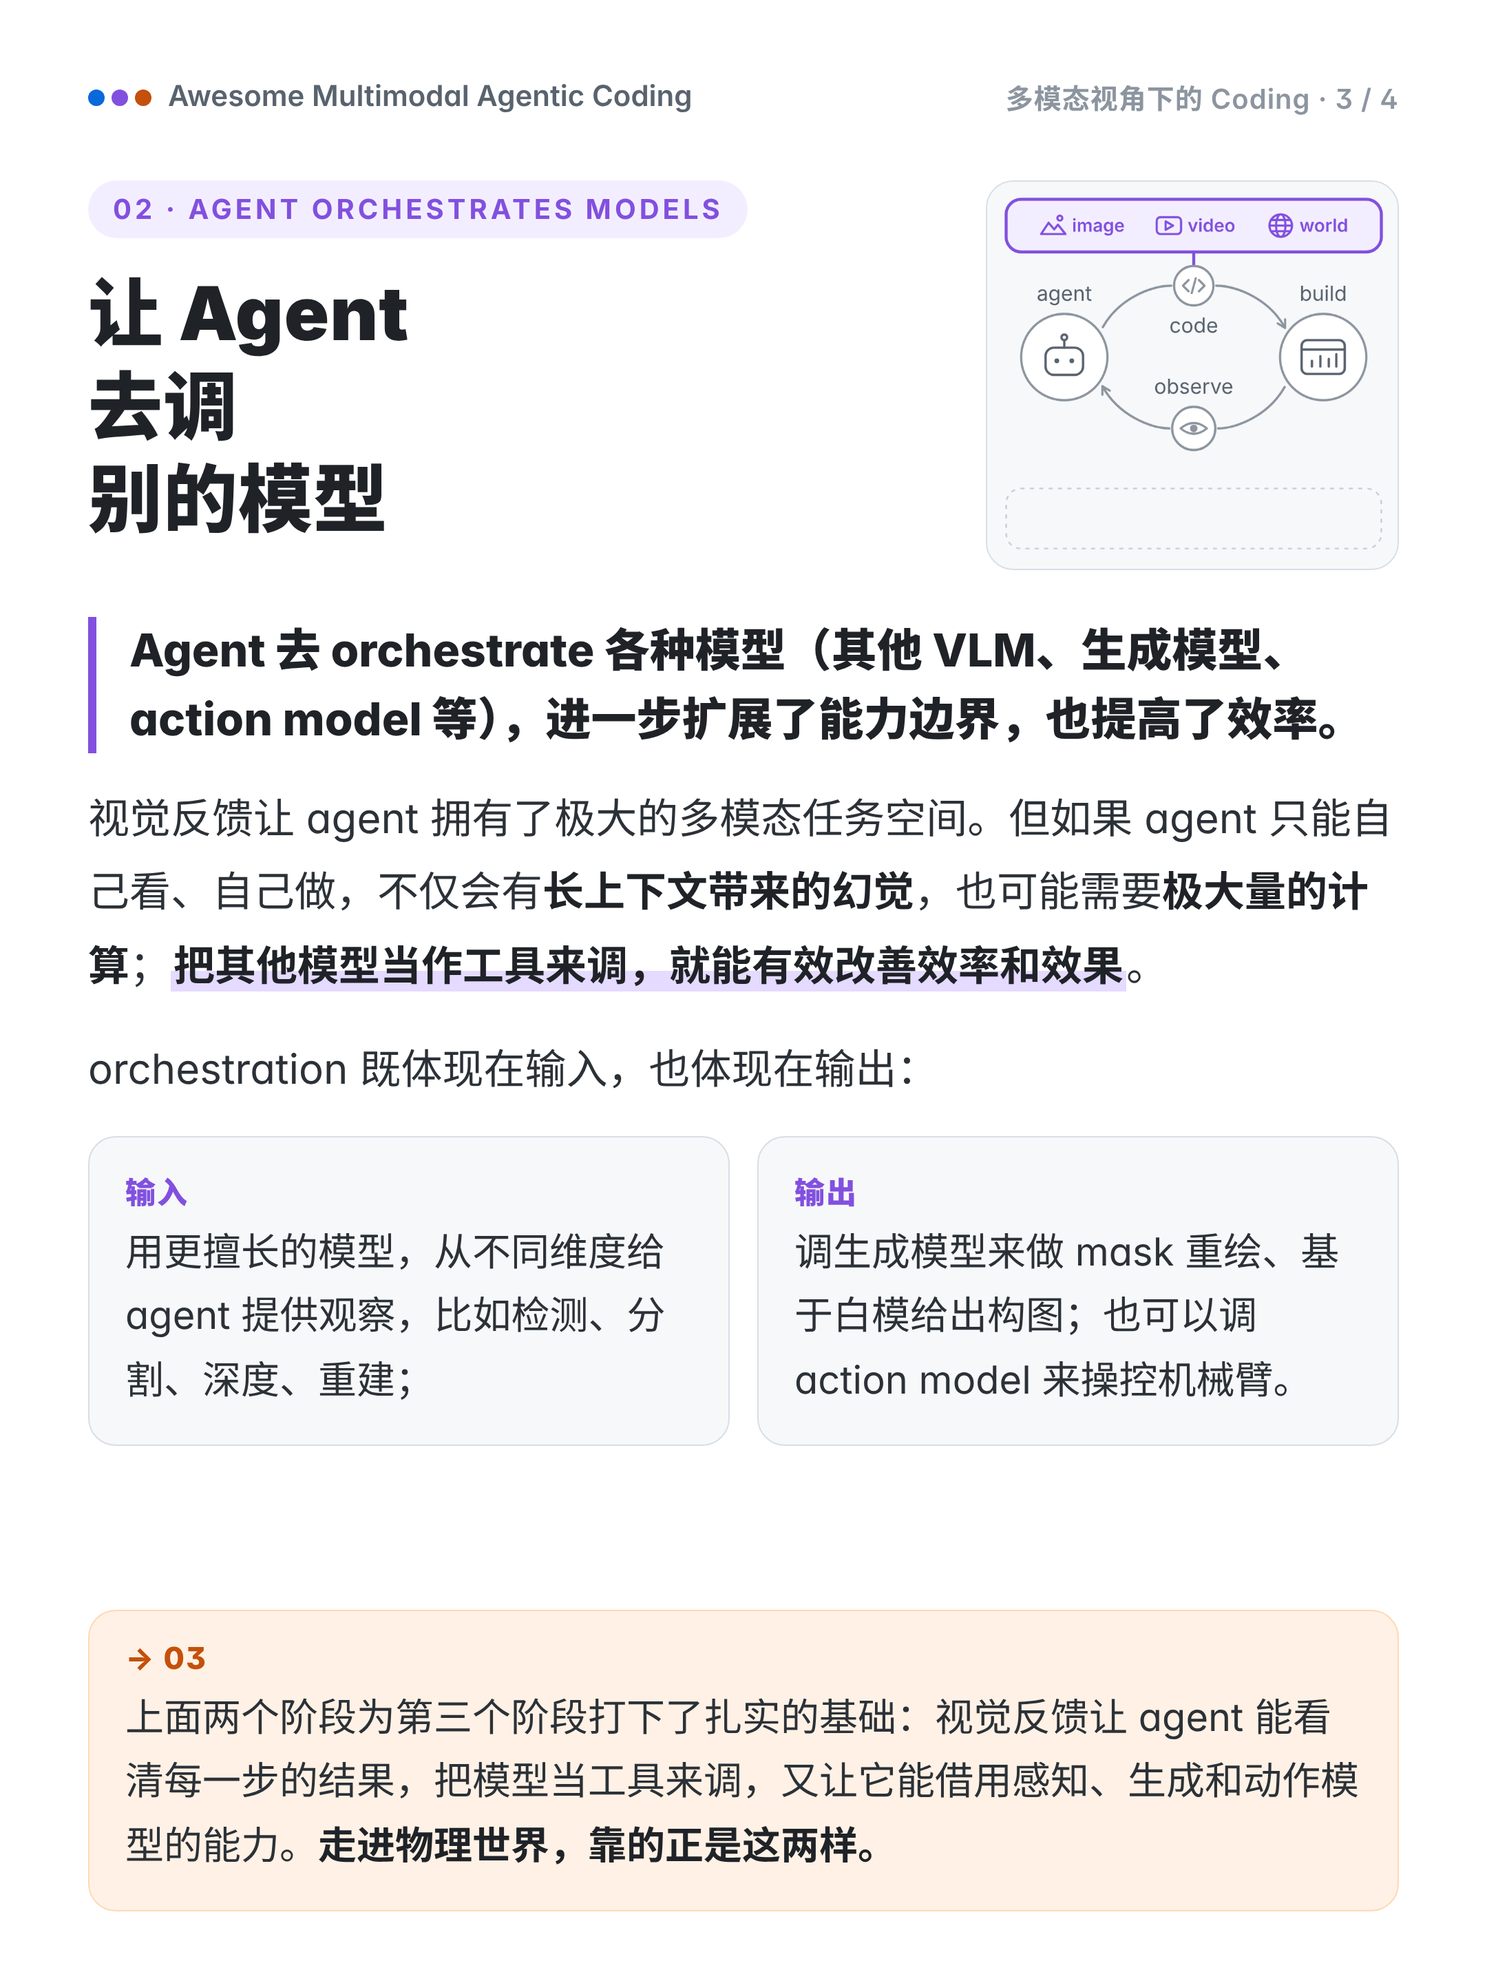
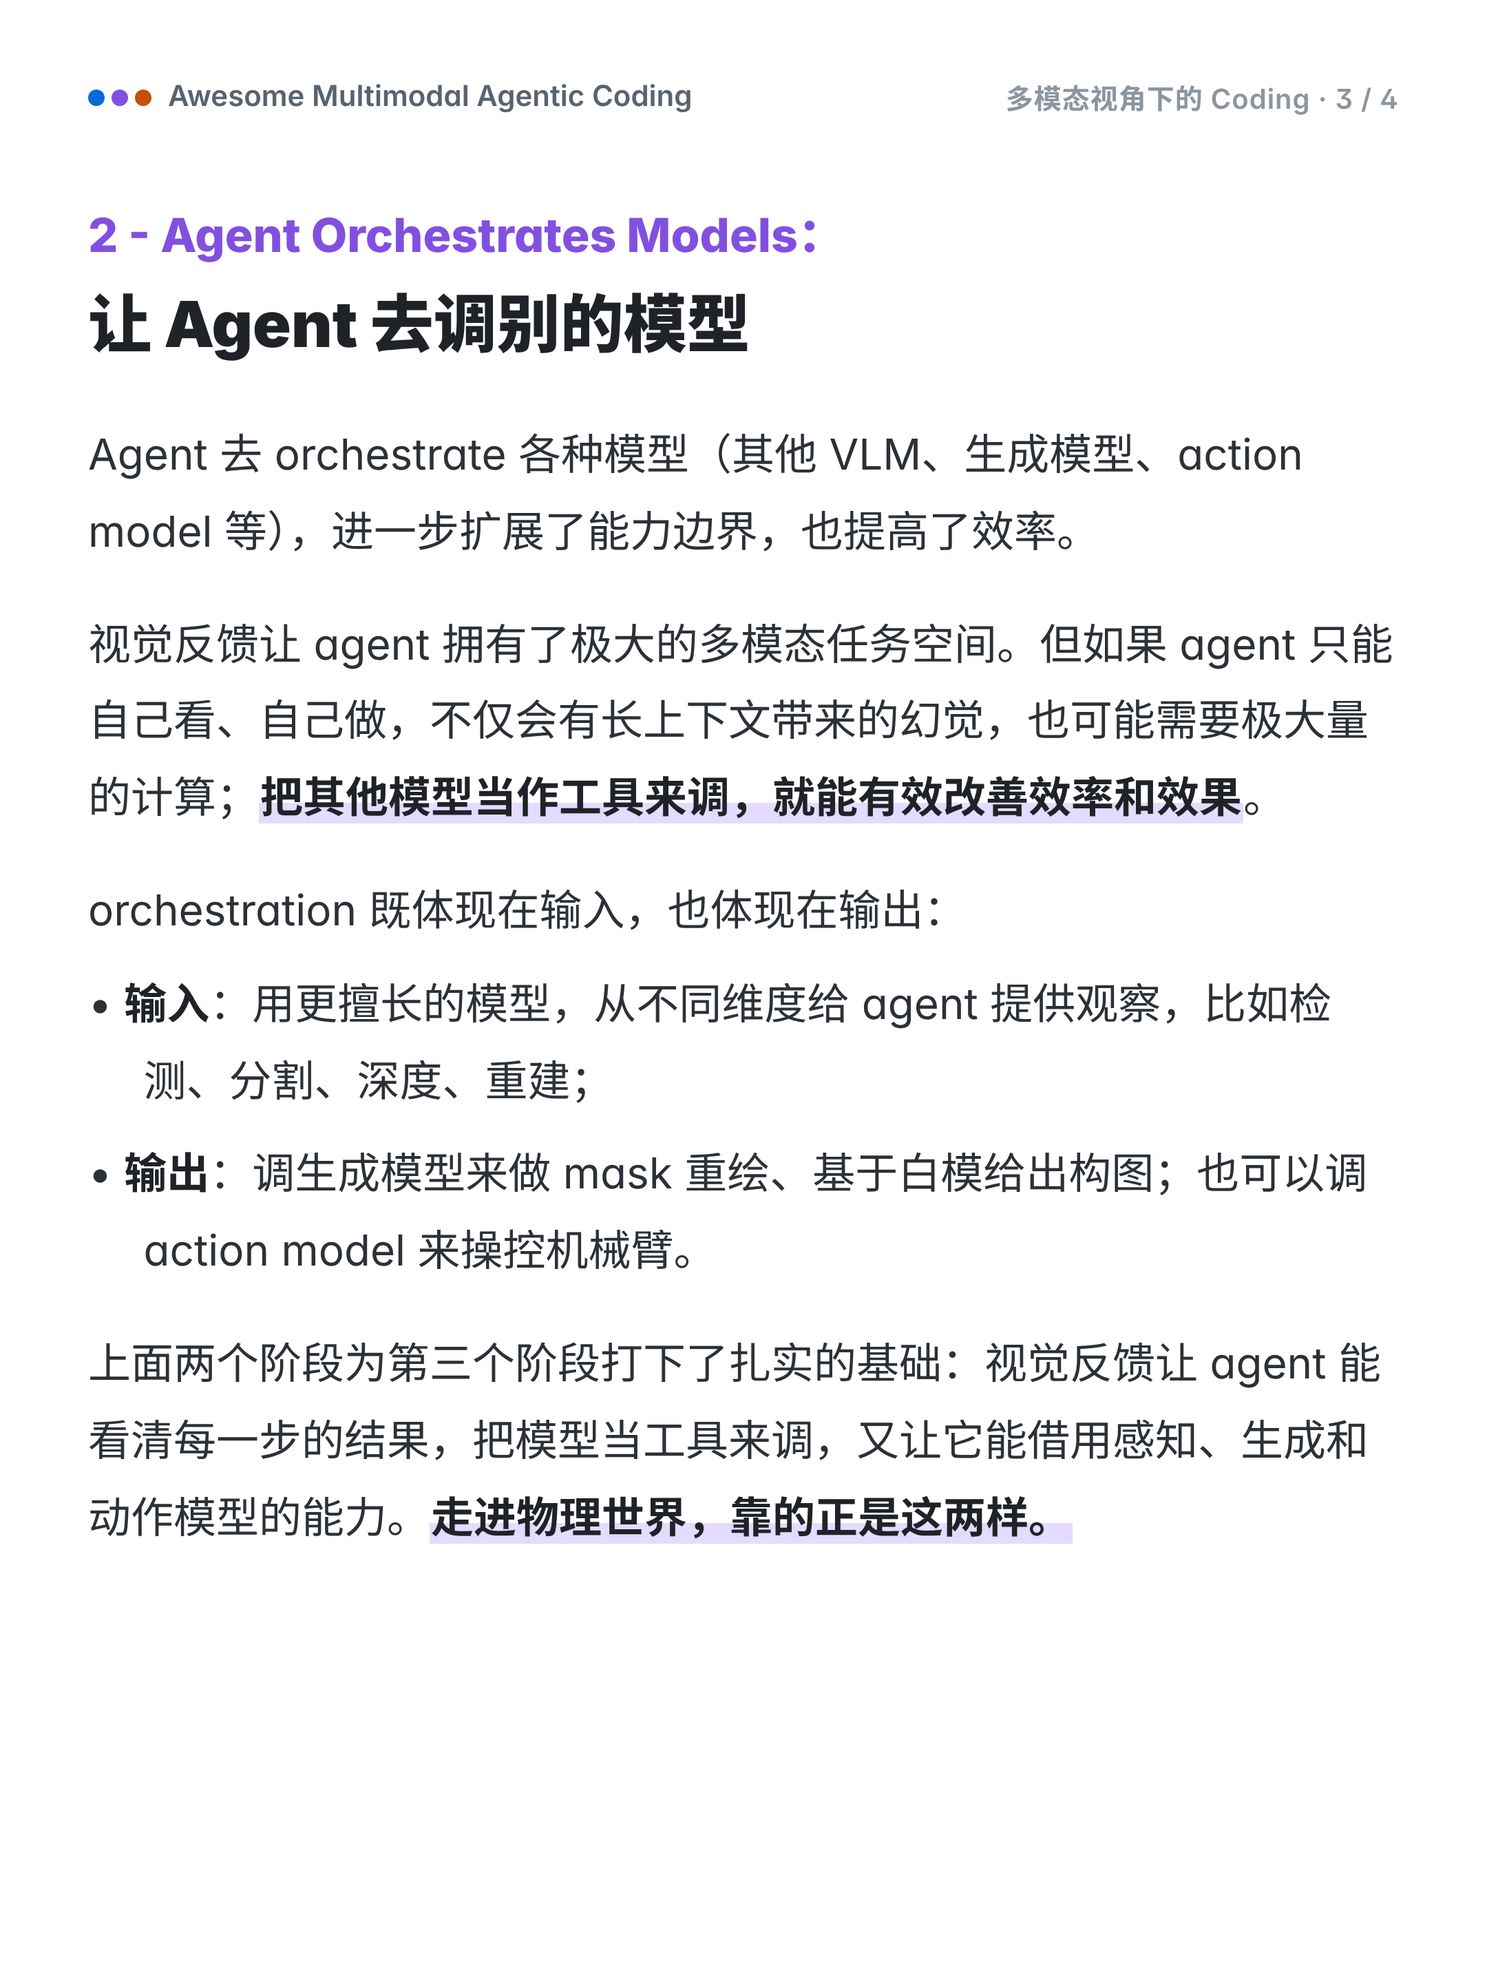
Simplify the post images to plain text with a few highlights
Drop the boxes, quote bars, stage cards and diagrams from the four post
pages; keep headings, body text, bold and a light marker highlight.

Claude-Session: https://claude.ai/code/session_01PZLRnhK6KdyKQiDbpVhFsH

diff --git a/promo/gen.js b/promo/gen.js
@@ -50,38 +50,17 @@ b{font-weight:700}
   border-top:1.5px solid ${C.stroke};font-size:25px;font-weight:600}
 .link svg{width:28px;height:28px}
 
-/* post pages */
+/* post pages: plain article text with a few highlighted phrases */
 .prog{font-size:20px;font-weight:600;color:${C.faint};letter-spacing:.5px}
-.ttl{margin-top:64px;font-size:74px;font-weight:900;line-height:1.15;letter-spacing:1px}
-.tsub{margin-top:18px;font-size:32px;font-weight:700;color:${C.sub}}
-.txt p{margin-top:22px;font-size:28px;line-height:1.78;color:${C.text}}
-.txt b{color:${C.ink}}
-.hl{font-weight:700;color:${C.ink};background:linear-gradient(transparent 58%,var(--mark) 58%);padding:0 2px}
-.lead{margin-top:34px;padding-left:24px;border-left:6px solid var(--acc);font-size:33px;font-weight:800;line-height:1.5;color:${C.ink}}
-.hd{margin-top:46px;display:flex;justify-content:space-between;align-items:flex-start;gap:28px}
-.chip{display:inline-flex;align-items:center;gap:10px;font-size:20px;font-weight:700;letter-spacing:2.5px;border-radius:999px;padding:9px 18px;background:var(--tint);color:var(--acc)}
-.h2{margin-top:22px;font-size:54px;font-weight:900;line-height:1.25;letter-spacing:.5px}
-.diag{flex:none;border-radius:20px;overflow:hidden;position:relative;border:1.5px solid ${C.stroke};background:${C.card}}
-.diag img{position:absolute;display:block}
-.intro3{margin-top:30px;font-size:28px;font-weight:700}
-.stages{margin-top:18px;display:flex;flex-direction:column;gap:12px}
-.srow{display:grid;grid-template-columns:80px 1fr;align-items:center;border-radius:20px;padding:14px 24px;border:1.5px solid ${C.stroke};background:${C.card}}
-.srow .n{font-size:38px;font-weight:800}
-.srow .e{font-size:19px;font-weight:700;letter-spacing:1.5px}
-.srow .z{font-size:26px;font-weight:600;margin-top:3px;color:${C.ink}}
-.io{margin-top:20px;display:grid;grid-template-columns:1fr 1fr;gap:20px}
-.box{border-radius:20px;padding:22px 26px 24px;border:1.5px solid ${C.stroke};background:${C.card}}
-.box .k{font-size:22px;font-weight:800;letter-spacing:1px;color:var(--acc);margin-bottom:6px}
-.box .v{font-size:27px;line-height:1.66;color:${C.text}}
-.box .v b{color:${C.ink}}
-.bridge{margin-top:auto;background:${C.tint[2]};border-color:#FFD8B5}
-.pull{margin-top:28px;font-size:44px;font-weight:900;line-height:1.3}
-.h2{text-wrap:balance}.lead{text-wrap:pretty}.txt p,.box .v{text-wrap:pretty}
-.pp1 .ttl{font-size:78px;margin-top:76px}.pp1 .tsub{margin-top:22px}.pp1 .txt p{font-size:30px;margin-top:28px}.pp1 .intro3{margin-top:44px}.pp1 .stages{margin-top:22px;gap:16px}.pp1 .srow .z{font-size:27px}
-.pp2 .txt p{font-size:32px;margin-top:26px}.pp2 .lead{font-size:37px;margin-top:40px}
-.pp3 .txt p{font-size:30px}.pp3 .lead{font-size:33px;text-wrap:wrap}.pp3 .box .v{font-size:28px}
-.pp4 .txt p{font-size:30px}.pp4 .pull{font-size:48px}.pp4 .box .v{font-size:28px}
-.endbox{margin-top:auto;background:linear-gradient(90deg,${C.tint[0]},${C.tint[1]} 55%,${C.tint[2]});border-color:#E3DDF3}
+.ar .h1{margin-top:72px;font-size:64px;font-weight:900;line-height:1.25}
+.ar .h1sub{margin-top:16px;font-size:32px;font-weight:700;color:${C.sub}}
+.ar .h2{margin-top:64px;font-size:46px;font-weight:900;line-height:1.35}
+.ar .h2 .n{display:block;font-size:34px;font-weight:800;color:var(--acc);margin-bottom:10px}
+.ar .h3{margin-top:48px;font-size:34px;font-weight:800}
+.ar p{margin-top:26px;font-size:31px;line-height:1.8;color:${C.text};text-wrap:pretty}
+.ar p.li{margin-top:12px;padding-left:1.3em;text-indent:-1.3em}
+.ar b{color:${C.ink}}
+.hl{font-weight:700;color:${C.ink};background:linear-gradient(transparent 60%,var(--mark) 60%);padding:0 1px}
 `;
 
 // Show the source rect (x, y, w, h) of the hero PNG inside a box of width boxW.
@@ -106,77 +85,44 @@ function cover() {
 </div>`;
 }
 
-const vars = (i) => `--acc:${C.acc[i]};--tint:${C.tint[i]};--mark:${C.mark[i]}`;
+const vars = (i) => `--acc:${C.acc[i]};--mark:${C.mark[i]}`;
 const topbar = (n) => `<div class="topbar"><span class="brand"><span class="dots">${C.acc.map((c) => `<i style="background:${c}"></i>`).join('')}</span>Awesome Multimodal Agentic Coding</span><span class="prog">多模态视角下的 Coding · ${n} / 4</span></div>`;
-// Panel i of the hero spans x = 100 + 1020 i .. +960 (PNG pixels); this crop keeps its loop diagram.
-const diagram = (i, w = 300) => crop('diag', 100 + 1020 * i + 40, 500, 880, 830, w);
 const hl = (t) => `<span class="hl">${t}</span>`;
-const head = (i, chip, title, w) => `<div class="hd"><div><span class="chip">${chip}</span><div class="h2">${title}</div></div>${diagram(i, w)}</div>`;
+const article = (n, i, body) => `<div class="page ar" style="${vars(i)}">${topbar(n)}${body}</div>`;
 
-function intro() {
-  const rows = [
-    ['Visual as Feedback', '有了视觉反馈，模型才能真正 loop 起来'],
-    ['Agent Orchestrates Models', '让 Agent 去调生成、感知、动作模型，能力边界进一步扩展'],
-    ['Bridging Digital &amp; Physical', '用代码搭仿真、控机器人，从屏幕走到真实世界'],
-  ];
-  return `<div class="page pp1" style="${vars(1)}">
-  ${topbar(1)}
-  <div class="ttl">多模态视角下的 <span class="grad">Coding</span></div>
-  <div class="tsub">扩展 Agent 能力边界，最终通向物理 AGI</div>
-  <div class="txt">
-    <p>最近和一些同学交流，感觉我们的角度还挺有意思的，所以分享下我们的思考。</p>
-    <p>我们从六月份开始做多模态 agentic coding 相关的任务。GPT-6 发布后，Computer Use Agent 一下子火了，也让我们之前摸着能力边界做的一些研究显得不那么前沿了（一个人做也确实比较慢）。</p>
-    <p>但我们一直是从 ${hl('coding 的角度、而不是 CUA 的角度')}来看这件事。最近 <b>Robot Use Agent</b> 也越来越多：让 Agent 直接写代码控制机器人，再加上 <b>Real2Sim2Real</b>，这些都是${hl('多模态 coding 这条线往物理世界的延伸')}。其实从 coding 的角度来看，这个发展是很自然的。</p>
-  </div>
-  <div class="intro3">我们主要从下面三个阶段来理解：</div>
-  <div class="stages">${rows.map(([e, z], i) => `<div class="srow"><div class="n" style="color:${C.acc[i]}">0${i + 1}</div><div><div class="e" style="color:${C.acc[i]}">${e.toUpperCase()}</div><div class="z">${z}</div></div></div>`).join('')}</div>
-</div>`;
-}
+const intro = () => article(1, 1, `
+  <div class="h1">多模态视角下的 Coding</div>
+  <div class="h1sub">扩展 Agent 能力边界，最终通向物理 AGI</div>
+  <p style="margin-top:44px">最近和一些同学交流，感觉我们的角度还挺有意思的，所以分享下我们的思考。</p>
+  <p>我们从六月份开始做多模态 agentic coding 相关的任务。GPT-6 发布后，Computer Use Agent 一下子火了，也让我们之前摸着能力边界做的一些研究显得不那么前沿了（一个人做也确实比较慢）。</p>
+  <p>但我们一直是从 ${hl('coding 的角度、而不是 CUA 的角度')}来看这件事。最近 <b>Robot Use Agent</b> 也越来越多：让 Agent 直接写代码控制机器人，再加上 <b>Real2Sim2Real</b>，这些都是${hl('多模态 coding 这条线往物理世界的延伸')}。其实从 coding 的角度来看，这个发展是很自然的。</p>
+  <p>我们主要从下面三个阶段来理解：</p>
+  <p class="li">1⃣ <b>Visual as Feedback</b>：有了视觉反馈，模型才能真正 loop 起来</p>
+  <p class="li">2⃣ <b>Agent Orchestrates Models</b>：让 Agent 去调生成、感知、动作模型，能力边界进一步扩展</p>
+  <p class="li">3⃣ <b>Bridging Digital &amp; Physical</b>：用代码搭仿真、控机器人，从屏幕走到真实世界</p>`);
 
-function stage1() {
-  return `<div class="page pp2" style="${vars(0)}">
-  ${topbar(2)}
-  ${head(0, '01 · VISUAL AS FEEDBACK', '有了视觉反馈，<br>模型才能<br>loop 起来', 340)}
-  <div class="lead">视觉反馈和 perception 能力的提升，让模型可以真正 loop 起来。</div>
-  <div class="txt">
-    <p>相比于一般的 coding agent，多模态 coding agent 的关键就是有${hl('视觉反馈')}，这一点<b>极大地扩展了 agent 的能力边界</b>。网页、图表、PPT、3D/CAD、游戏……${hl('只要能跑出来、看得见，就能放进这个 loop 里')}。</p>
-    <p>其中，<b>perception、grounding 以及 diff</b> 这些原子多模态能力是基础：看得准、找得到、比得出差别。${hl('反馈够精准，coding loop 才能更好地跑起来')}。</p>
-    <p>当然，在这之前通过各种 workflow 也能带来 visual feedback；但在 agent 场景下，${hl('模型不只是做 VQA 了')}，它可以自主地去对比，并且对整个<b>「多模态 repo」</b>进行优化。</p>
-  </div>
-</div>`;
-}
+const stage1 = () => article(2, 0, `
+  <div class="h2"><span class="n">1 - Visual as Feedback：</span>有了视觉反馈，模型才能 loop 起来</div>
+  <p style="margin-top:36px">视觉反馈和 perception 能力的提升，让模型可以${hl('真正 loop 起来')}。</p>
+  <p>相比于一般的 coding agent，多模态 coding agent 的关键就是有<b>视觉反馈</b>，这一点极大地扩展了 agent 的能力边界。网页、图表、PPT、3D/CAD、游戏……${hl('只要能跑出来、看得见，就能放进这个 loop 里')}。</p>
+  <p>其中，<b>perception、grounding 以及 diff</b> 这些原子多模态能力是基础：看得准、找得到、比得出差别。反馈够精准，coding loop 才能更好地跑起来。</p>
+  <p>当然，在这之前通过各种 workflow 也能带来 visual feedback；但在 agent 场景下，${hl('模型不只是做 VQA 了')}，它可以自主地去对比，并且对整个「多模态 repo」进行优化。</p>`);
 
-function stage2() {
-  return `<div class="page pp3" style="${vars(1)}">
-  ${topbar(3)}
-  ${head(1, '02 · AGENT ORCHESTRATES MODELS', '让 Agent<br>去调<br>别的模型')}
-  <div class="lead">Agent 去 orchestrate 各种模型（其他 VLM、生成模型、action model 等），进一步扩展了能力边界，也提高了效率。</div>
-  <div class="txt">
-    <p>视觉反馈让 agent 拥有了极大的多模态任务空间。但如果 agent 只能自己看、自己做，不仅会有<b>长上下文带来的幻觉</b>，也可能需要<b>极大量的计算</b>；${hl('把其他模型当作工具来调，就能有效改善效率和效果')}。</p>
-    <p>orchestration 既体现在输入，也体现在输出：</p>
-  </div>
-  <div class="io">
-    <div class="box"><div class="k">输入</div><div class="v">用更擅长的模型，从不同维度给 agent 提供观察，比如检测、分割、深度、重建；</div></div>
-    <div class="box"><div class="k">输出</div><div class="v">调生成模型来做 mask 重绘、基于白模给出构图；也可以调 action model 来操控机械臂。</div></div>
-  </div>
-  <div class="box bridge"><div class="k" style="color:${C.acc[2]}">→ 03</div><div class="v">上面两个阶段为第三个阶段打下了扎实的基础：视觉反馈让 agent 能看清每一步的结果，把模型当工具来调，又让它能借用感知、生成和动作模型的能力。<b>走进物理世界，靠的正是这两样。</b></div></div>
-</div>`;
-}
+const stage2 = () => article(3, 1, `
+  <div class="h2"><span class="n">2 - Agent Orchestrates Models：</span>让 Agent 去调别的模型</div>
+  <p style="margin-top:36px">Agent 去 orchestrate 各种模型（其他 VLM、生成模型、action model 等），进一步扩展了能力边界，也提高了效率。</p>
+  <p>视觉反馈让 agent 拥有了极大的多模态任务空间。但如果 agent 只能自己看、自己做，不仅会有长上下文带来的幻觉，也可能需要极大量的计算；${hl('把其他模型当作工具来调，就能有效改善效率和效果')}。</p>
+  <p>orchestration 既体现在输入，也体现在输出：</p>
+  <p class="li">• <b>输入</b>：用更擅长的模型，从不同维度给 agent 提供观察，比如检测、分割、深度、重建；</p>
+  <p class="li">• <b>输出</b>：调生成模型来做 mask 重绘、基于白模给出构图；也可以调 action model 来操控机械臂。</p>
+  <p>上面两个阶段为第三个阶段打下了扎实的基础：视觉反馈让 agent 能看清每一步的结果，把模型当工具来调，又让它能借用感知、生成和动作模型的能力。${hl('走进物理世界，靠的正是这两样。')}</p>`);
 
-function stage3() {
-  return `<div class="page pp4" style="${vars(2)}">
-  ${topbar(4)}
-  ${head(2, '03 · BRIDGING DIGITAL &amp; PHYSICAL', '把 loop<br>带进<br>物理世界')}
-  <div class="txt">
-    <p>前两个阶段不断扩展着 coding agent 的能力边界，但都还在 digital world 里。很自然地，我们想把这个 loop 带进 physical world。这也是我们仓库里现在最大、涨得最快的一块。</p>
-  </div>
-  <div class="pull grad">Agentic Loop 是一切想法的开始。</div>
-  <div class="txt">
-    <p style="margin-top:12px">coding控制的就是一台机器人，${hl('「看结果改代码」变成了「看动作结果改策略」')}。最近的 <b>Robot Use Agent</b> 做的正是这件事：不用专门训练一个策略，只给现成的 coding agent 一个终端和机器人的感知、运动接口，它就能自己写 Python 让机器人干活，看相机画面和执行结果，失败了就改代码再试。但真机上的 loop <b>又慢又贵</b>，于是很自然地想先把真实世界「搬」进代码里，而前两个阶段的发展为 <b>Real2Sim</b> 提供了可能；再在仿真里把 loop 转得又快又多，造数据、攒经验，最后把能力带回真机。${hl('这一切又是基模的故事了')}</p>
-  </div>
-  <div class="box endbox"><div class="k" style="color:${C.ink}">最后</div><div class="v">三个阶段是层层叠上去的。我们相信，沿着「写代码 → 看结果 → 再改」这条路，agent 会一步步从屏幕走进真实世界，<b>最终通向物理 AGI</b>。</div></div>
-</div>`;
-}
+const stage3 = () => article(4, 2, `
+  <div class="h2"><span class="n">3 - Bridging Digital World &amp; Physical World：</span>把 loop 带进物理世界</div>
+  <p style="margin-top:36px">前两个阶段不断扩展着 coding agent 的能力边界，但都还在 digital world 里。很自然地，我们想把这个 loop 带进 physical world。这也是我们仓库里现在最大、涨得最快的一块。</p>
+  <p>${hl('Agentic Loop 是一切想法的开始。')}coding控制的就是一台机器人，「看结果改代码」变成了「看动作结果改策略」。最近的 <b>Robot Use Agent</b> 做的正是这件事：不用专门训练一个策略，只给现成的 coding agent 一个终端和机器人的感知、运动接口，它就能自己写 Python 让机器人干活，看相机画面和执行结果，失败了就改代码再试。但真机上的 loop 又慢又贵，于是很自然地想先把真实世界「搬」进代码里，而前两个阶段的发展为 Real2Sim 提供了可能；再在仿真里把 loop 转得又快又多，造数据、攒经验，最后把能力带回真机。${hl('这一切又是基模的故事了')}</p>
+  <div class="h3">最后</div>
+  <p style="margin-top:18px">三个阶段是层层叠上去的。我们相信，沿着「写代码 → 看结果 → 再改」这条路，agent 会一步步从屏幕走进真实世界，${hl('最终通向物理 AGI')}。</p>`);
 
 (async () => {
   fs.mkdirSync(OUT, { recursive: true });
